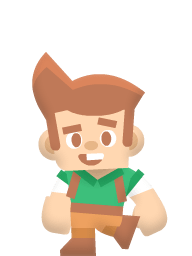
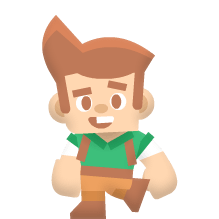
changed the pics of hero, so that he could be 70*70

Changed region(s): [[0.1562, 0.0548, 0.875, 1.0]]

diff --git a/src/Boy.java b/src/Boy.java
@@ -55,7 +55,7 @@ public class Boy {
         this.x = x;
         this.y = y;
         this.width = 70;
-        this.height = 80;
+        this.height = 70;
     }
 
     public void moveUp() {
